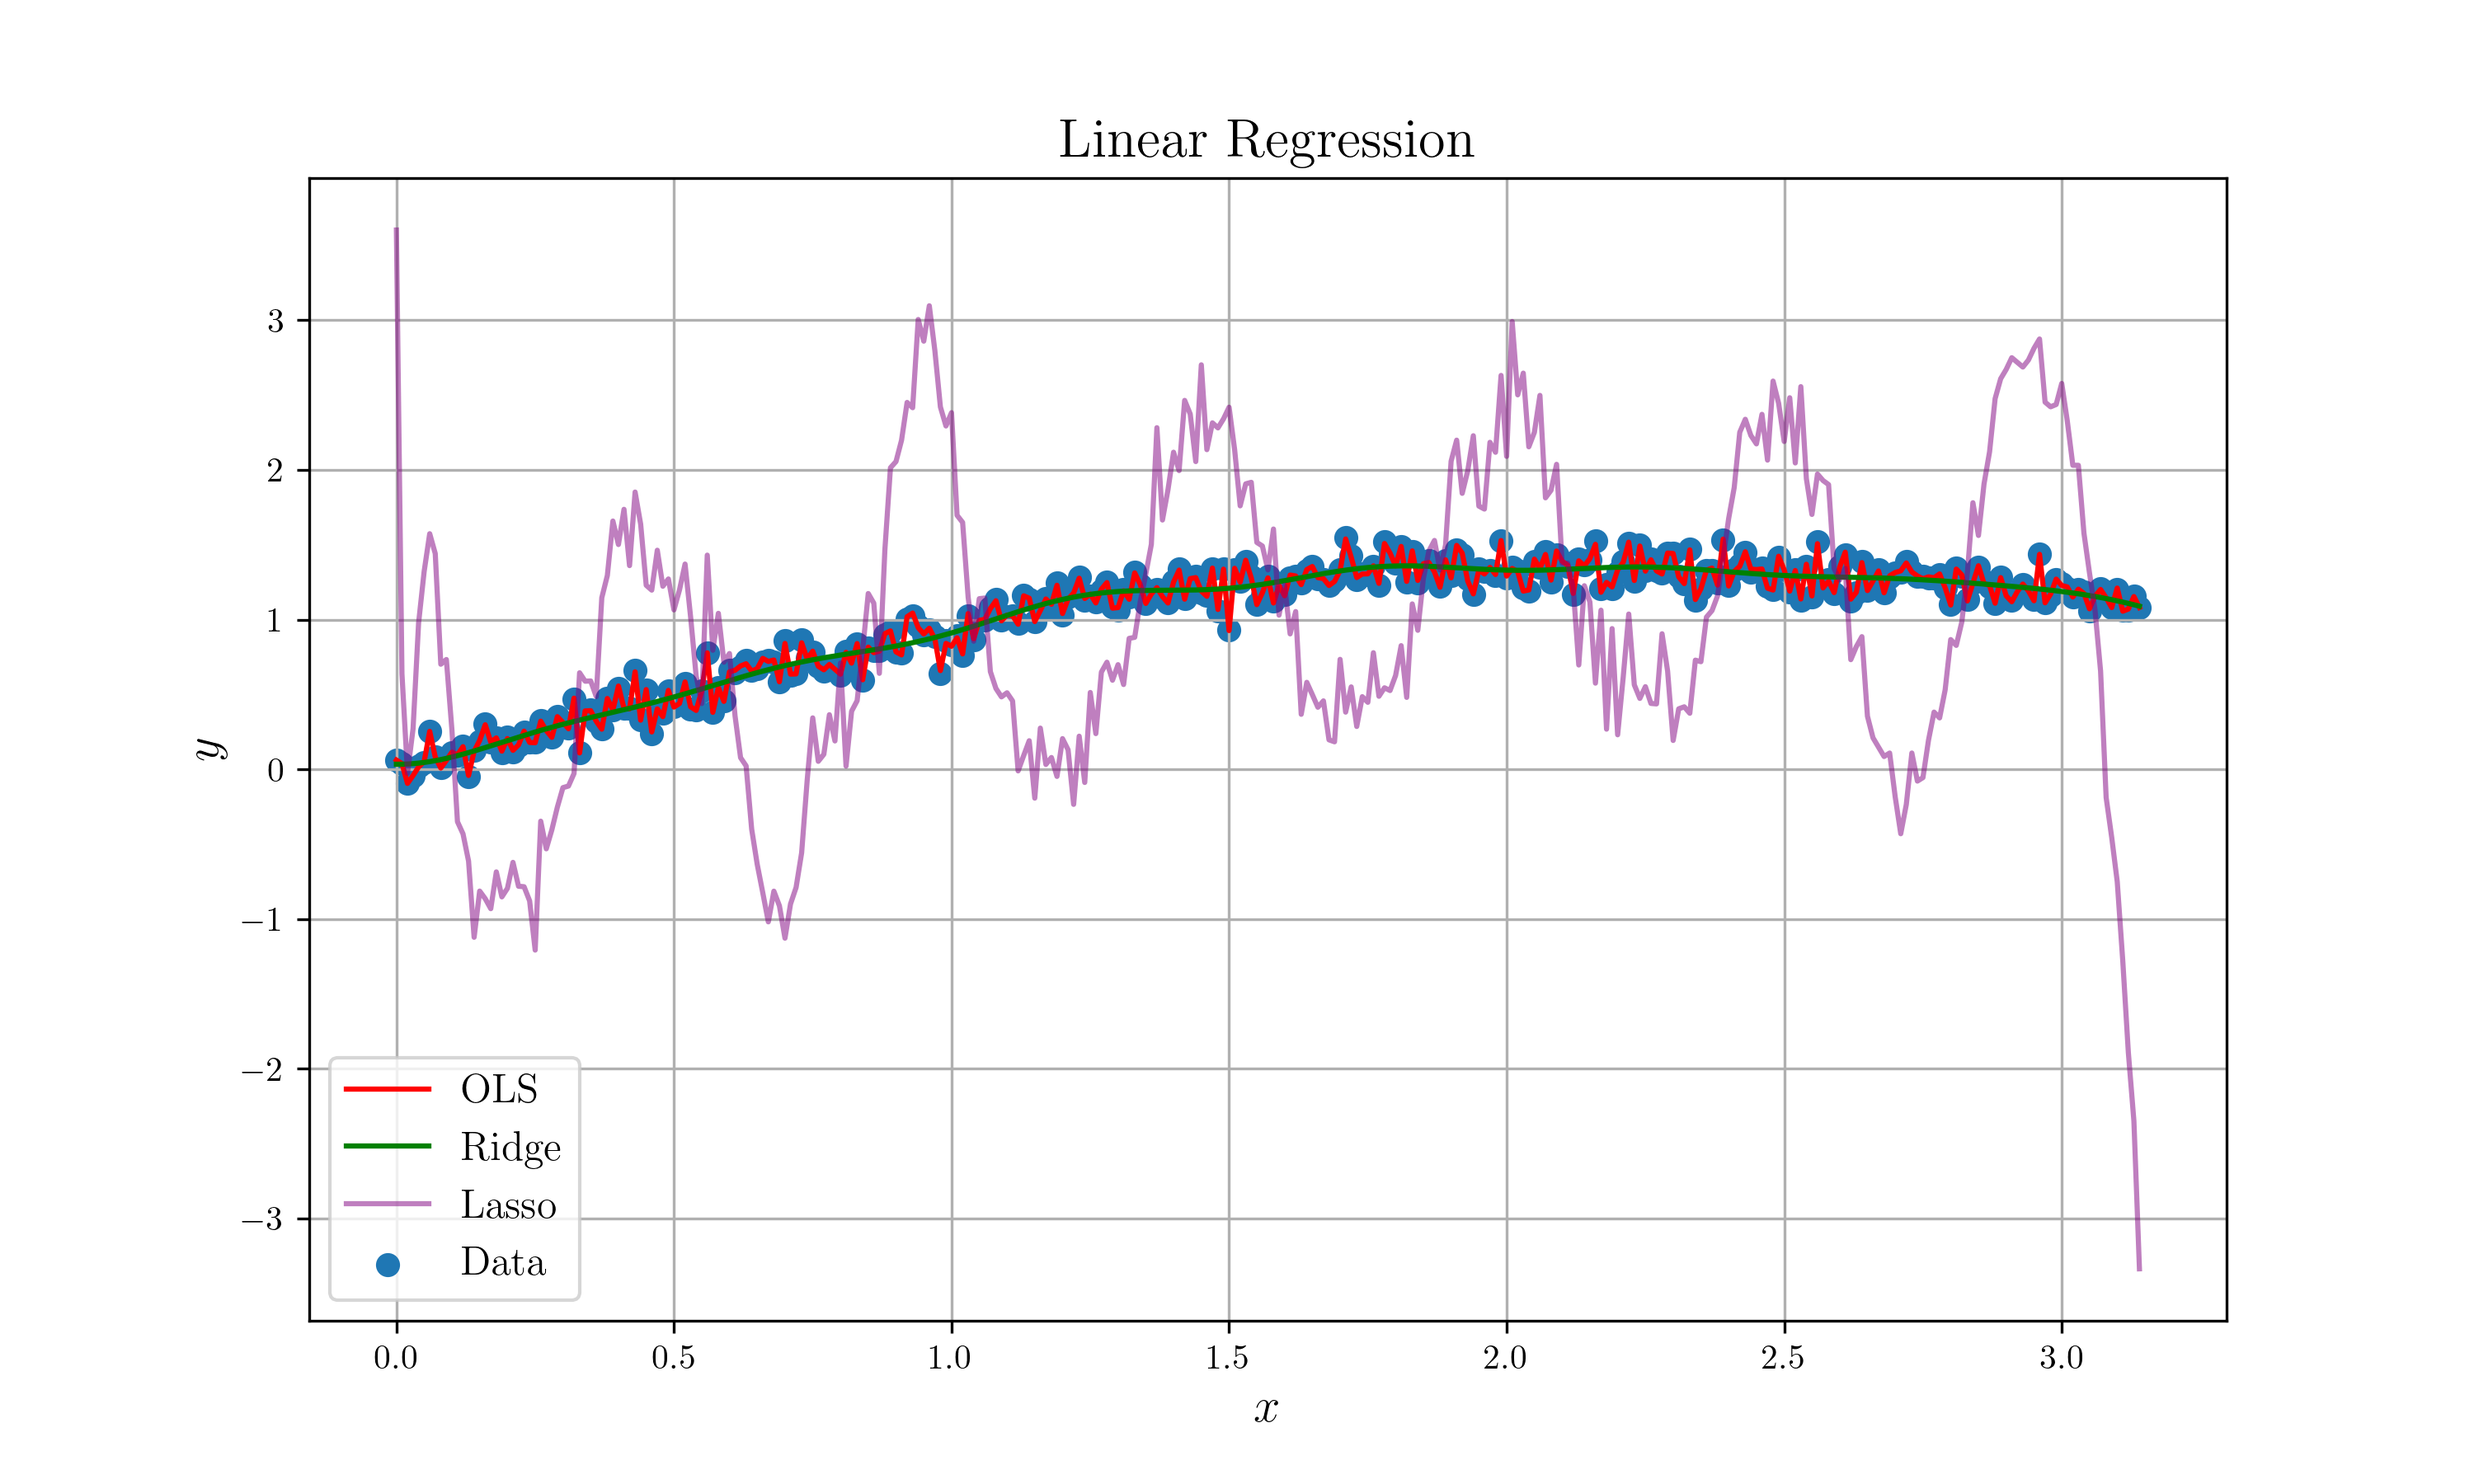
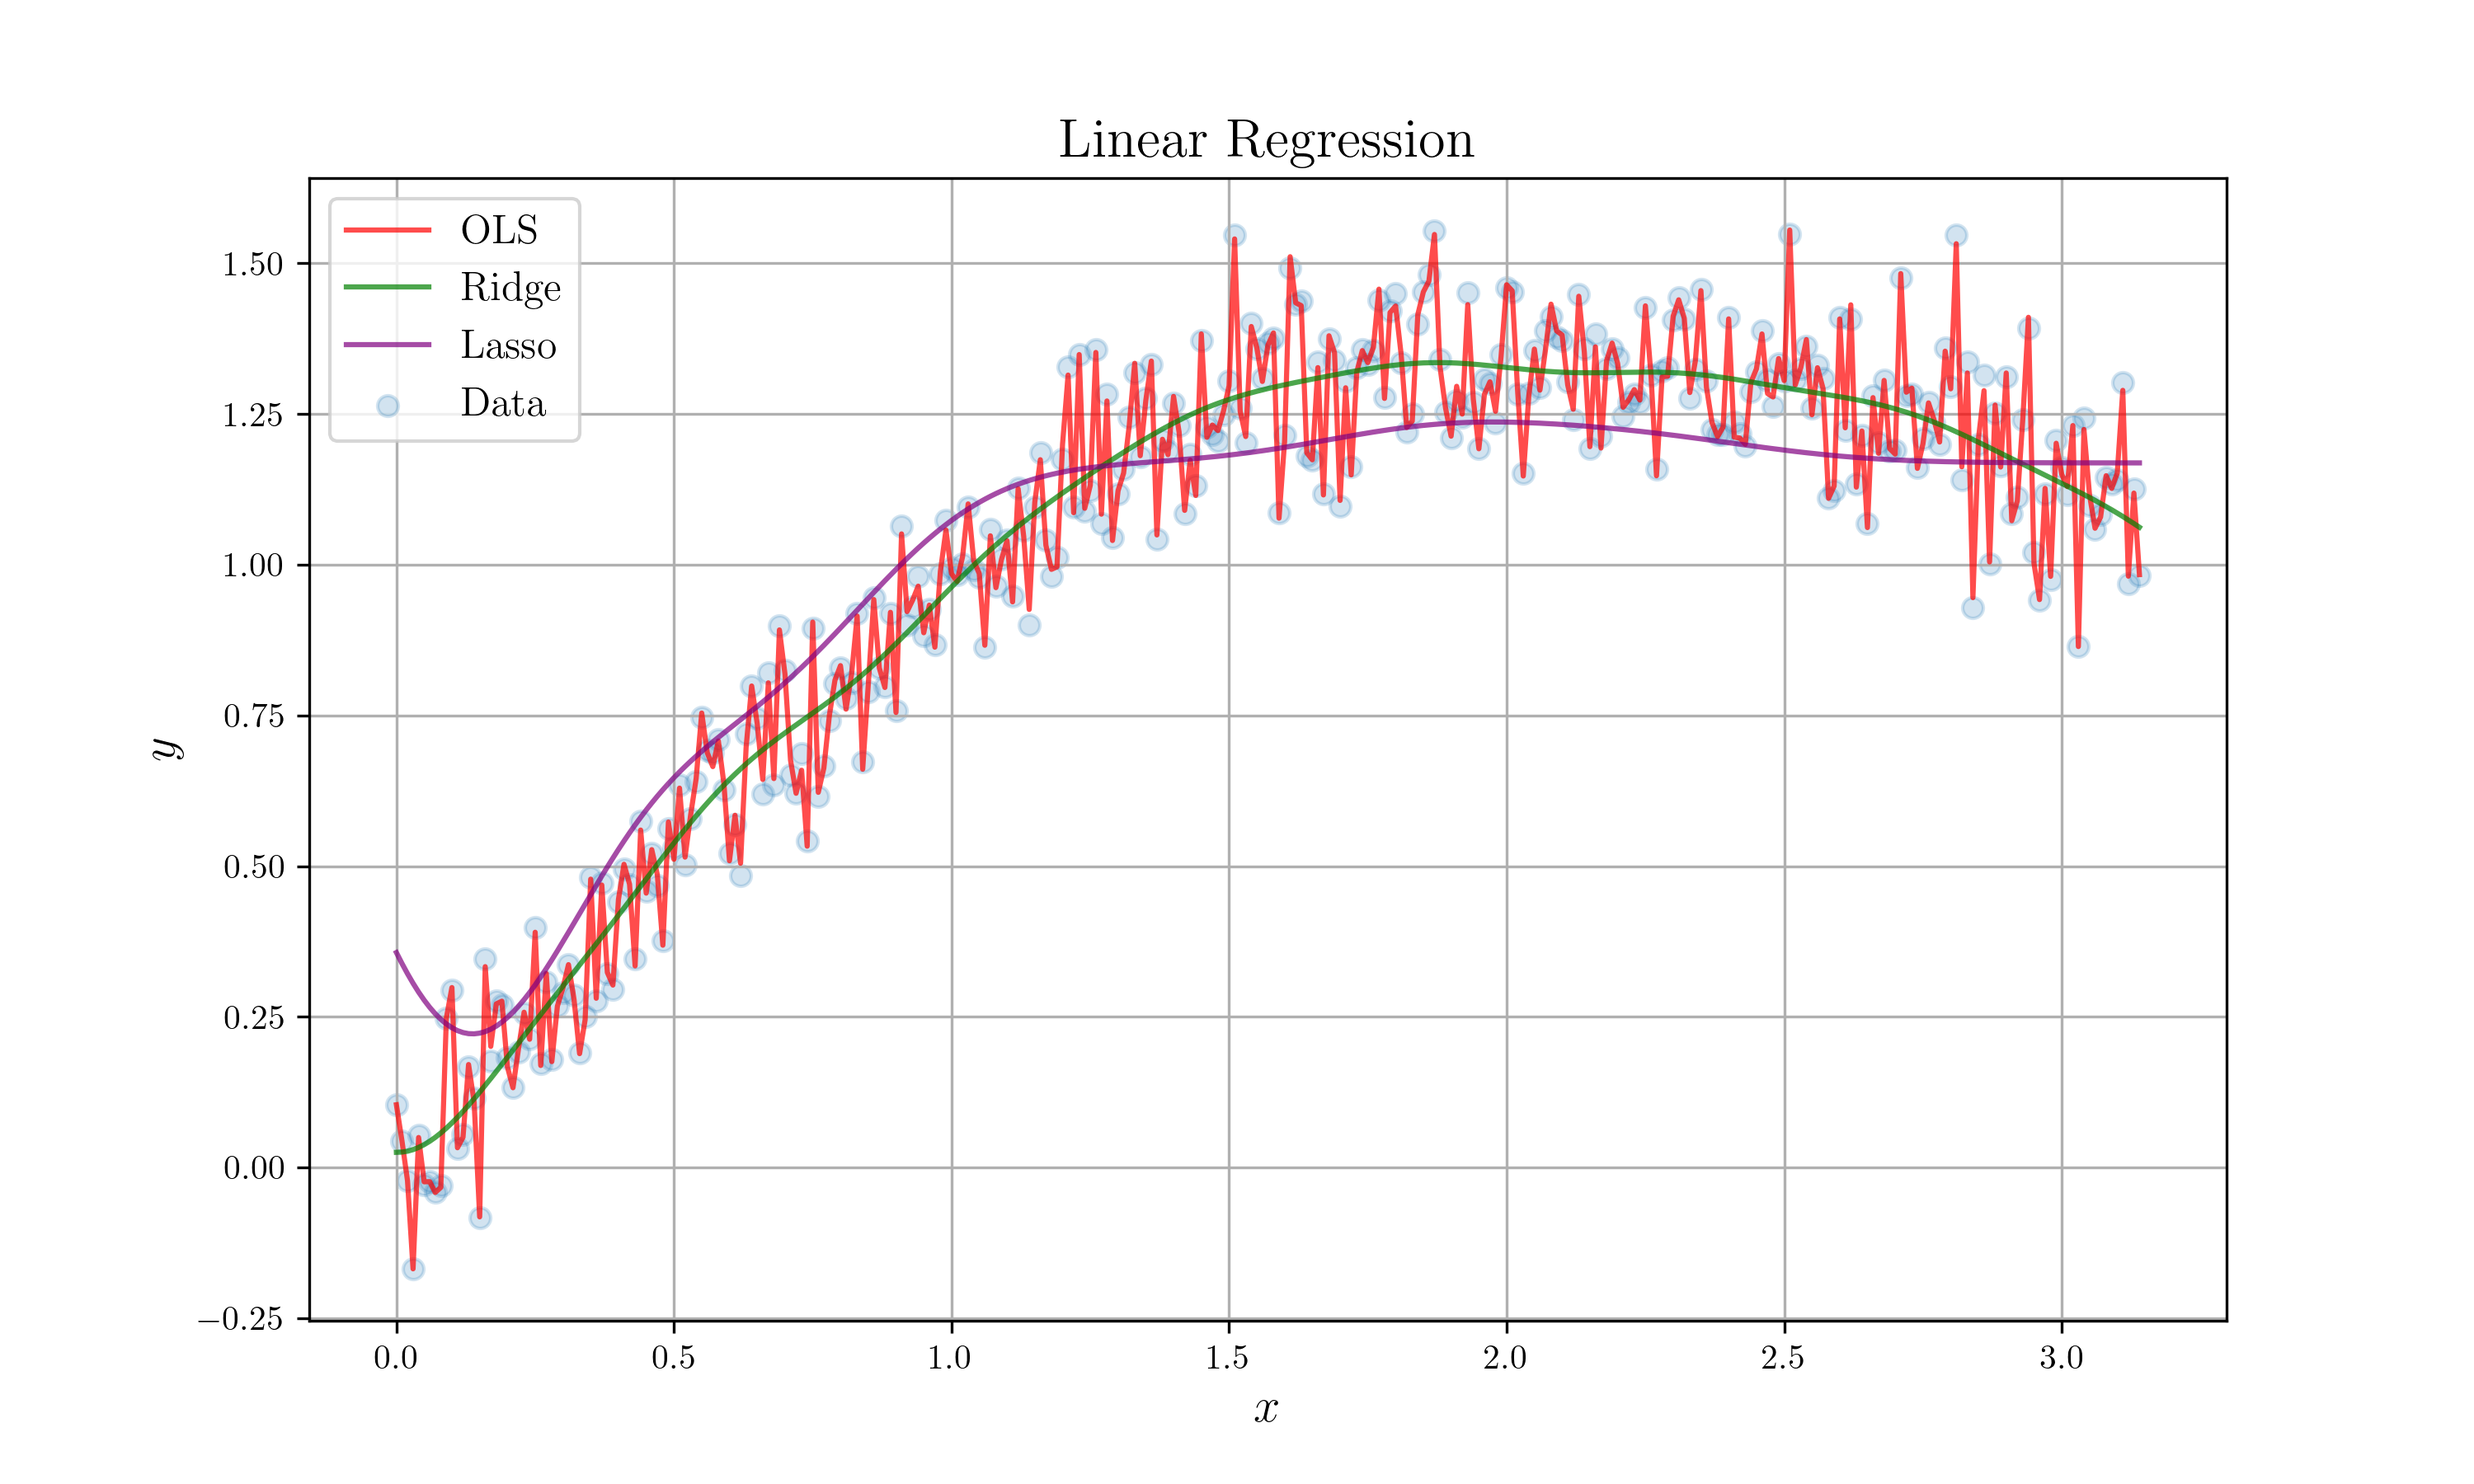
Lasso vs Ridge

diff --git a/chap3/rust/src/main.rs b/chap3/rust/src/main.rs
@@ -26,16 +26,16 @@ fn main() {
     let mut ridge = LinReg::new(&X, &y, Method::Ridge(1f64));
     ridge.estimate();
     ridge.stat_test();
+    println!("RIDGE: ");
+    ridge.beta().print();
 
-    //ols.summary();
     println!("");
 
-    //ridge.summary();
-
     // Lasso
-    let mut lasso = LinReg::new(&X, &y, Method::Lasso(0.1));
-    lasso.beta().print();
+    let mut lasso = LinReg::new(&X, &y, Method::Lasso(0.1f64));
     lasso.estimate();
+    println!("LASSO: ");
+    lasso.beta().print();
 
     let mut df = DataFrame::new(vec![]);
     df.push("x", Series::new(x));
@@ -118,7 +118,6 @@ fn coordinate_descent_lasso(beta_init: &Vec<f64>, X: &Matrix, y: &Vec<f64>, lam:
                     .map(|(a, b, c)| a - b + c * beta[j])
                     .collect::<Vec<f64>>()
             );
-            //let rho = x_j.dot(&(y.sub_v(&y_hat).add_v(&x_j.mul_s(beta[j]))));
             beta[j] = soft_threshold(rho, lam);
         }
     }
@@ -146,6 +145,7 @@ pub struct LinReg {
     N: usize,
     p: usize,
     beta: Option<Vec<f64>>,
+    beta_0: Option<f64>,
     y_hat: Option<Vec<f64>>,
     sigma_hat: Option<f64>,
     t_score: Option<Vec<f64>>,
@@ -163,19 +163,17 @@ pub enum Method {
 
 impl LinReg {
     pub fn new(x: &Matrix, y: &Vec<f64>, method: Method) -> Self {
-        let (x_mat, y_vec, beta) = match method {
+        let (x_mat, y_vec, beta, beta_0) = match method {
             Method::OLS => {
-                (add_bias(x.clone()), y.clone(), None)
+                (add_bias(x.clone()), y.clone(), None, None)
             }
             Method::Ridge(_) => {
-                (x.standardize(), y.centered(), None)
+                (x.standardize(), y.centered(), None, Some(y.mean()))
             }
             Method::Lasso(_) => {
-                println!("Hi");
-                (x.normalized(), y.centered(), Some(vec![1f64; x.col]))
+                (x.centered().normalized(), y.centered(), Some(vec![1f64; x.col]), Some(y.mean()))
             }
         };
-        println!("Normalized Success");
         
         Self {
             input: x_mat,
@@ -183,6 +181,7 @@ impl LinReg {
             N: y.len(),
             p: x.col,
             beta,
+            beta_0,
             y_hat: None,
             sigma_hat: None,
             t_score: None,
@@ -204,6 +203,13 @@ impl LinReg {
         match &self.beta {
             None => panic!("Not yet estimated!"),
             Some(beta) => beta,
+        }
+    }
+
+    pub fn beta_0(&self) -> &f64 {
+        match &self.beta_0 {
+            None => panic!("Not inserted!"),
+            Some(beta_0) => beta_0,
         }
     }
 
@@ -278,7 +284,7 @@ impl LinReg {
             }
             Method::Lasso(lam) => {
                 let beta_hat = coordinate_descent_lasso(self.beta(), self.input(), self.output(), lam, 200);
-                let y_hat = (self.input() * &beta_hat).add_s(self.output().mean());
+                let y_hat = (self.input() * &beta_hat).add_s(*self.beta_0());
 
                 self.beta = Some(beta_hat);
                 self.y_hat = Some(y_hat);

diff --git a/chap3/rust/lasso_plot.py b/chap3/rust/lasso_plot.py
@@ -24,10 +24,10 @@ y_ridge = var['y_ridge'][:]
 y_lasso = var['y_lasso'][:]
 
 # Plot with Legends
-plt.scatter(x, y, label=r'Data')
-plt.plot(x, y_ols, 'r', label=r'OLS')
-plt.plot(x, y_ridge, 'g', label=r'Ridge')
-plt.plot(x, y_lasso, color='purple', label=r'Lasso', alpha=0.5)
+plt.scatter(x, y, label=r'Data', alpha=0.2)
+plt.plot(x, y_ols, 'r', label=r'OLS', alpha=0.7)
+plt.plot(x, y_ridge, 'g', label=r'Ridge', alpha=0.7)
+plt.plot(x, y_lasso, color='purple', label=r'Lasso', alpha=0.7)
 
 # Other options
 plt.legend(fontsize=12)
